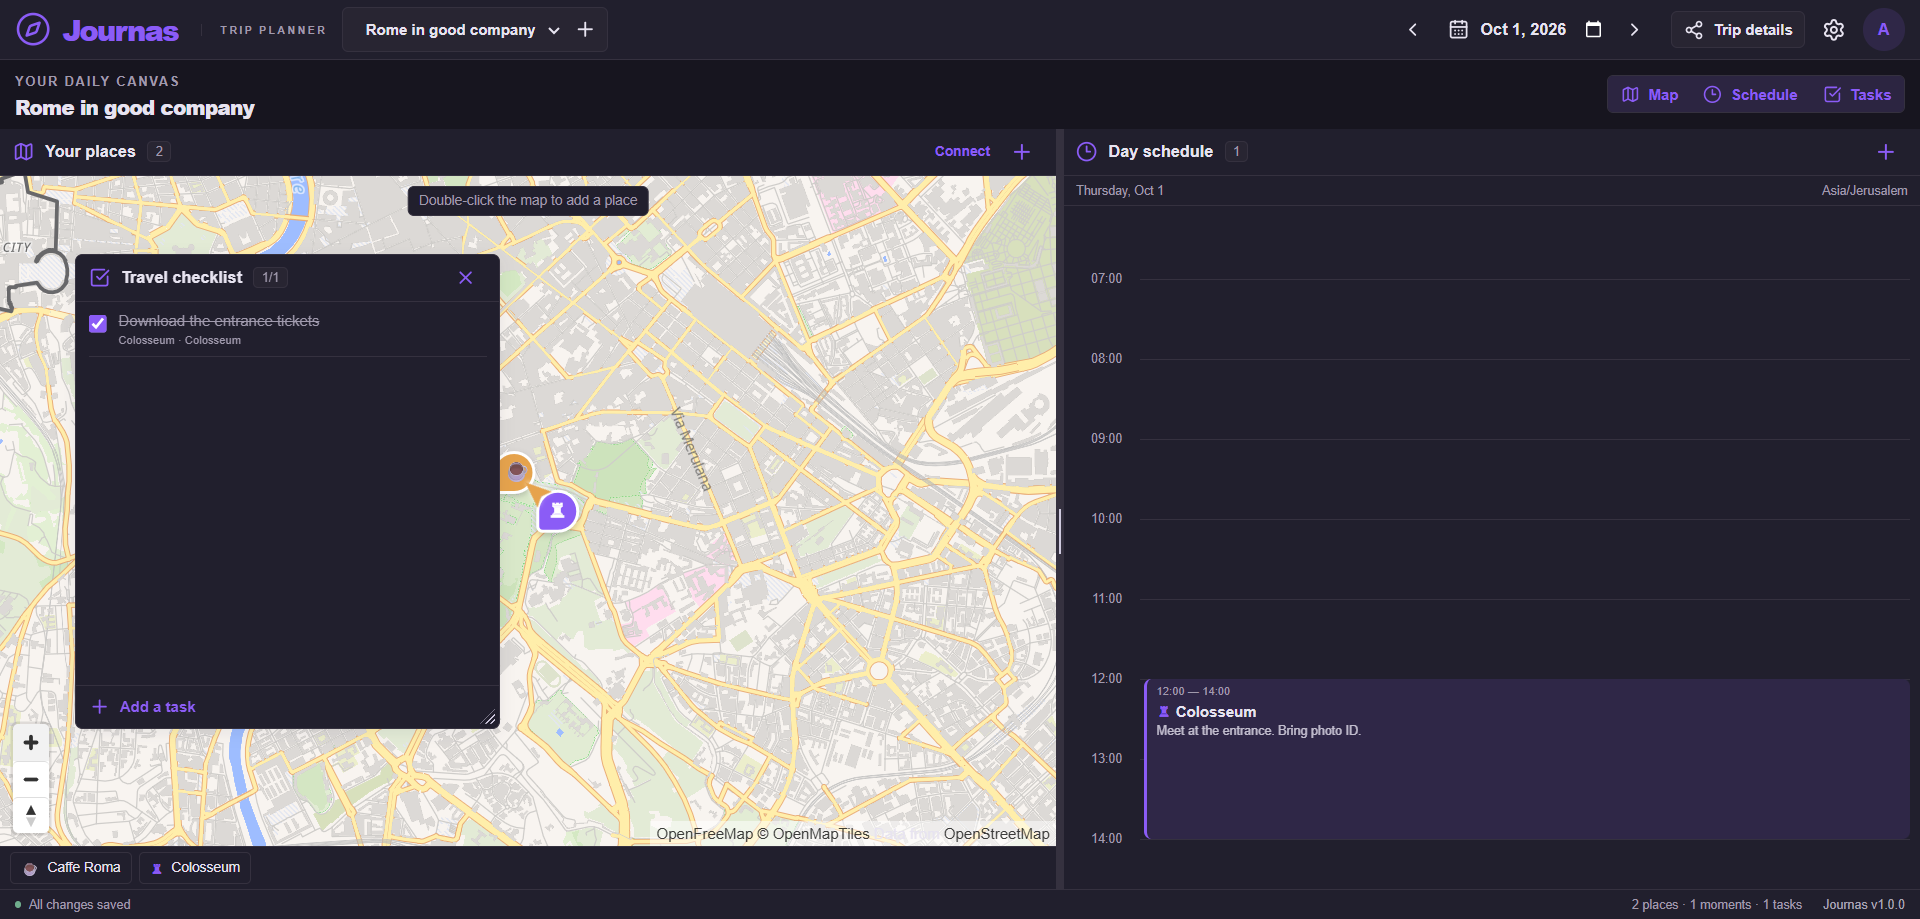
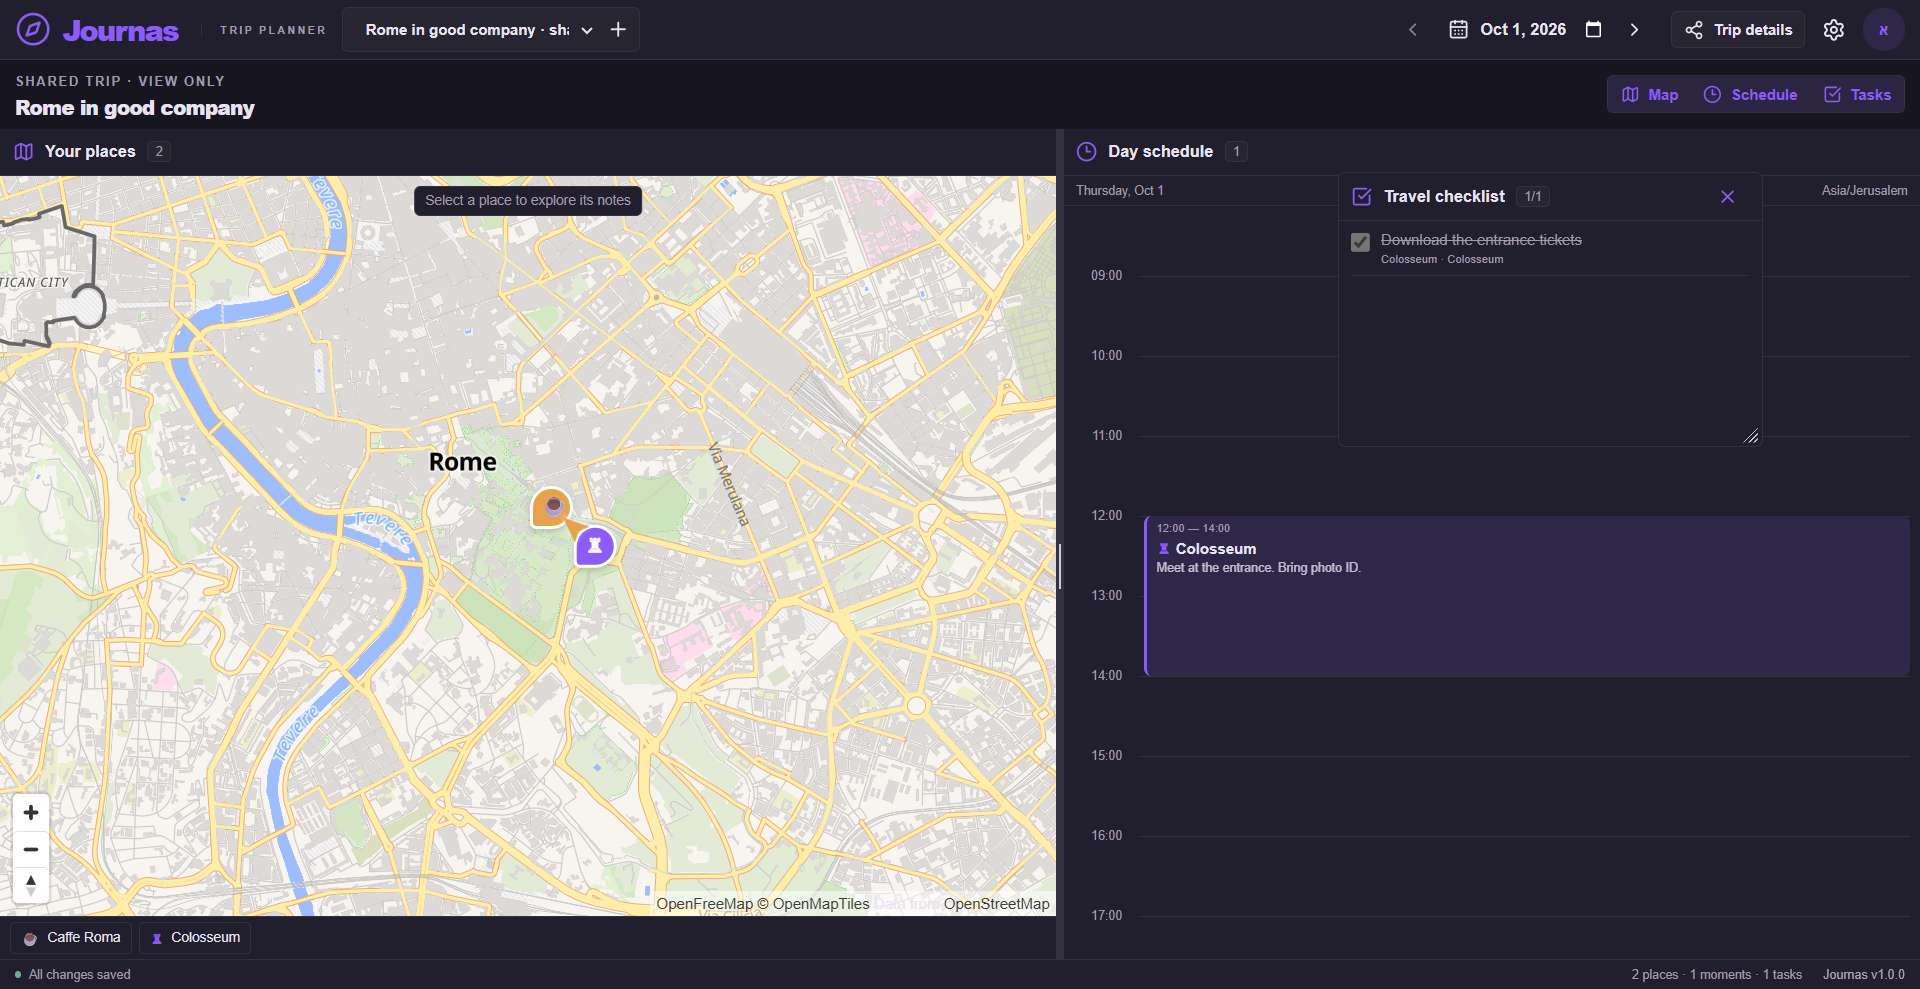
Reframe README screenshot with unobstructed map

diff --git a/README.md b/README.md
@@ -12,7 +12,7 @@ The production site connects to the Firebase project `journas-trip-planner`. Ear
 
 ![Journas production daily planner with fictional trip data](devpost/assets/planner-desktop.png)
 
-[Open the original 1,920 × 919 PNG captured directly in Chrome](devpost/assets/planner-desktop.png).
+[Open the original 1,920 × 989 PNG captured directly in Chrome](devpost/assets/planner-desktop.png).
 
 The [submission guide](devpost/submission-guide.md) maps every returned Devpost field to prepared copy and the six checked images. The [DemoMotion guide](devpost/demomotion-guide.md) provides exact inputs and a 2:30 recording sequence. Personal reflections, survey answers, eligibility and the final public video remain creator actions.
 
